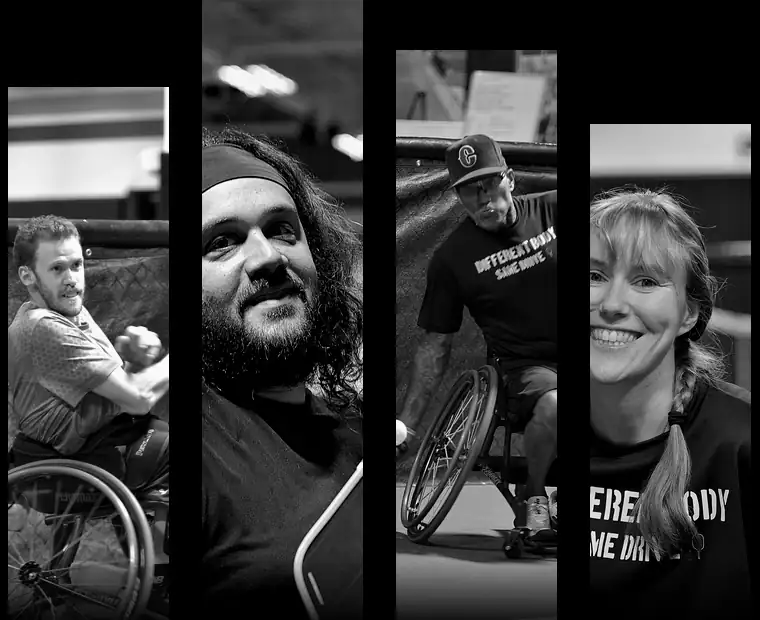
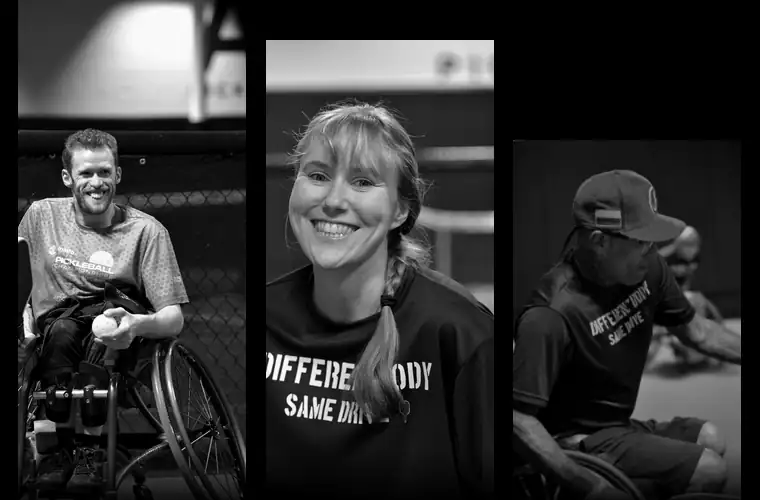
Interior band: fewer, wider frames, and photographs the homepage does not use
Alec: "use less vertical frames besides squishing them, especially for
mobile ... also use different pictures than the main banner. This vertical
layout is not meant for the main banner, keep the main banner as is."

FEWER, WIDER. Eight frames on desktop and four on a phone made every box
about 0.30 aspect — a vertical SLICE of a person. Nothing was
geometrically distorted; each column has been cropped at exactly the
aspect of its box since the stretch bug was fixed. But a slice of a face
reads as squished whether or not the arithmetic agrees, and the honest
fix is fewer frames, not a better crop. Five on desktop and three on a
phone put every box between 0.45 and 0.80 — portrait proportions, which
is what makes a face look like a face.

DIFFERENT PHOTOGRAPHS. The homepage mosaic uses 19 of the 25 favourites.
The band is now built from five of the six it does not touch, so an
interior page is not a rerun of the front page: the low dig, the grin in
the chair, the wide rally, the laugh between points, the pair at the net.

The mobile hero also gained enough padding to clear the strip. It is
760/500 of the viewport width — 257px at 390 — and anything less than
that landed the last line of copy on a frame's top edge.

The main banner is untouched: no change to index.html or hero-mosaic.css,
and the mosaic still uses its own nineteen panels.

Contrast probe green on every line, both widths. Band is 21KB wide /
18KB tall, down from 25/32. 472/472.

diff --git a/public/css/page-header.css b/public/css/page-header.css
@@ -113,12 +113,14 @@
      sliver behind a paragraph. */
   .hero.pg-band{
     padding-top:clamp(5.5rem, 13vh, 7.5rem);
-    padding-bottom:clamp(14rem, 40vw, 20rem);
+    /* clear the strip. It is 760/500 of the viewport width — 257px at 390 — so
+       anything under that lands the last line of copy on a frame's top edge. */
+    padding-bottom:clamp(18rem, 72vw, 24rem);
   }
   .hero.pg-band > .wrap > *{ max-width:none; }
   .hero.pg-band > .wrap::before{ left:-14%; right:-14%; top:-7%; bottom:-9%;
     background:rgba(0,0,0,0.88); }
-  .hero.pg-band::before{ aspect-ratio:760/620;
+  .hero.pg-band::before{ aspect-ratio:760/500;
     background-image:url('/images/hero/panels/pg-band-tall.webp'); }
   .hero.pg-band::after{
     background:

diff --git a/scripts/build-hero-panels.py b/scripts/build-hero-panels.py
@@ -180,45 +180,45 @@ def compose_band():
     compresses to a fraction of its parts.
     """
     import numpy as np
-    # Alec, pointing at variant 2: "less crammed, none of the pictures are
-    # squished. I want a clean vertical layout when we use this."
+    # Alec: "use less vertical frames besides squishing them, especially for
+    # mobile ... also use different pictures than the main banner."
     #
-    # Crammed was the pitch. The columns were 15% wide on a 13% pitch, so every
-    # one of them OVERLAPPED its neighbour by two points and the band read as a
-    # solid wall of face. Real gaps are what make a row of columns read as
-    # columns. Width is now comfortably inside the pitch, and the heights swing
-    # wider so the top edge is a skyline rather than a comb.
+    # FEWER, WIDER FRAMES. Nothing here was ever geometrically distorted — each
+    # column is cropped at exactly the aspect of the box it goes into — but a
+    # 0.30-aspect box is a vertical SLICE of a person, and a slice of a face
+    # reads as squished whether or not the arithmetic says otherwise. Eight
+    # columns on a phone is four too many. Five on desktop and three on a phone
+    # gives every frame something like portrait proportions, which is what makes
+    # a face look like a face.
+    #
+    # DIFFERENT PHOTOGRAPHS. The homepage mosaic uses 19 of the 25 favourites;
+    # these are five of the six it does not touch, so the interior pages are not
+    # a rerun of the front page.
     COLS = [  # source, height share, back row
-        ("JLA_5920.jpg", 0.58, True),  ("JLA_6066.jpg", 0.86, False),
-        ("JLA_6077.jpg", 0.52, True),  ("JLA_6045.jpg", 1.00, False),
-        ("JLA_5973.jpg", 0.66, True),  ("JLA_5922.jpg", 0.92, False),
-        ("JLA_6073.jpg", 0.56, True),  ("JLA_6106.jpg", 0.80, False),
+        ("JLA_5884.jpg", 0.72, True),   # reaching low for a dig
+        ("JLA_6071.jpg", 1.00, False),  # grinning, whole chair
+        ("JLA_5904.jpg", 0.62, True),   # rally, wide
+        ("JLA_6105.jpg", 0.92, False),  # laughing between points
+        ("JLA_6123.jpg", 0.70, True),   # two at the net
     ]
-    # These aspects are the CONTRACT with page-header.css, which anchors the band
-    # as a fixed-aspect strip at the bottom of the hero rather than stretching it
-    # over the whole thing. It has to be that way: interior heroes run from
-    # 1.50:1 (/donate) to 2.75:1 (/contact at 1920), and one fixed-aspect image
-    # under `cover` cannot serve that range — it scaled up and cropped the faces
-    # clean off the top. A strip with its own aspect always shows the whole band.
-    for name, W, H, n, pitch, cwf in (("pg-band-wide", 1200, 420, 8, 0.126, 0.104),
-                                      ("pg-band-tall", 760, 620, 4, 0.255, 0.212)):
+    for name, W, H, n, pitch, cwf in (("pg-band-wide", 1200, 420, 5, 0.190, 0.156),
+                                      ("pg-band-tall", 760, 500, 3, 0.325, 0.300)):
         canvas = Image.new("RGB", (W, H), (0, 0, 0))
-        use = COLS if n == 8 else COLS[1::2]
+        use = COLS if n == 5 else [COLS[1], COLS[3], COLS[0]]
         for i, (src, h, dim) in enumerate(use):
             im = Image.open(os.path.join(SRC, src))
             im.draft("RGB", (im.width // 3, im.height // 3))
             cw, ch = int(W * cwf), int(H * h)
             # Crop at the EXACT aspect of the box it goes into. Cropping at a
-            # fixed ratio and resizing into a differently-shaped box stretched
-            # every column by up to 45% — "the faces look squished". They were.
-            im = crop_to(im.convert("RGB"), cw / ch, 0.36, 0.50, 0.80)
+            # fixed ratio and resizing into a differently-shaped box stretches
+            # the image, which is a real distortion and was one once.
+            im = crop_to(im.convert("RGB"), cw / ch, 0.36, 0.50, 0.86)
             assert abs((im.width / im.height) - (cw / ch)) < 0.02, \
                 f"{src}: cropped {im.width}x{im.height} for a {cw}x{ch} box"
             im = mono(im.resize((cw, ch), Image.LANCZOS))
-            im = ImageEnhance.Brightness(im).enhance(0.66 if dim else 0.98)
+            im = ImageEnhance.Brightness(im).enhance(0.70 if dim else 0.98)
             if dim:
-                im = im.filter(ImageFilter.GaussianBlur(0.8))
-            # centred on its own pitch, so the gaps are even across the band
+                im = im.filter(ImageFilter.GaussianBlur(0.7))
             x = int(W * (0.5 * (1 - n * pitch) + i * pitch + (pitch - cwf) / 2))
             canvas.paste(im, (x, H - ch))
         a = np.asarray(canvas, np.float32) / 255.0
@@ -226,8 +226,8 @@ def compose_band():
         a *= np.clip(1.0 - np.maximum(0, (y - 0.90) / 0.10) * 0.85, 0, 1)
         canvas = Image.fromarray((a * 255).astype(np.uint8))
         out = os.path.join(DST, f"{name}.webp")
-        canvas.save(out, "WEBP", quality=56, method=6)
-        print(f"{name:20s} {W}x{H} {os.path.getsize(out)/1024:6.1f} KB")
+        canvas.save(out, "WEBP", quality=58, method=6)
+        print(f"{name:20s} {W}x{H} {n} frames  {os.path.getsize(out)/1024:6.1f} KB")
 
 
 def compose_roll():
